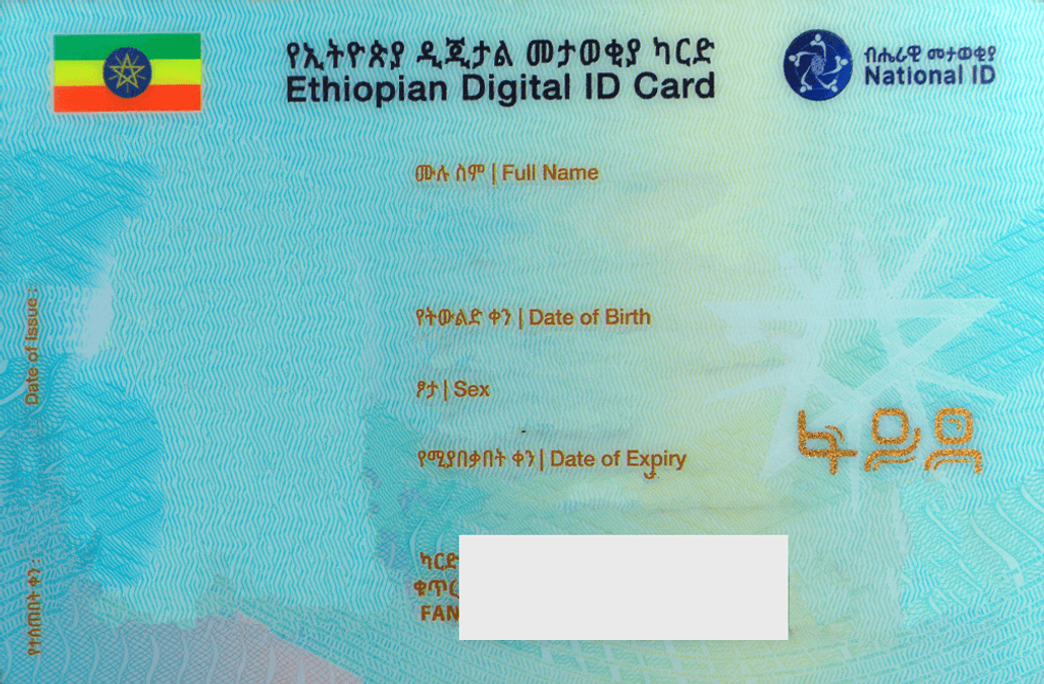
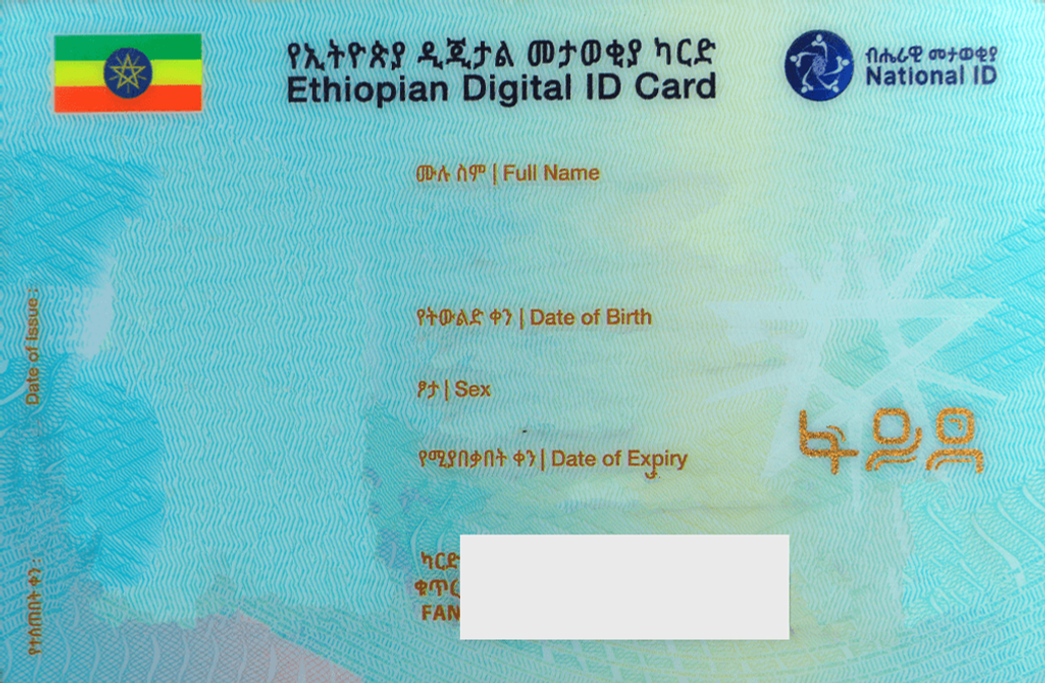
Fix exact dimensions: 1045x683px = 8.85x5.78cm at 300 DPI (verified)

diff --git a/src/services/generator/cardVariantGenerator.ts b/src/services/generator/cardVariantGenerator.ts
@@ -54,7 +54,7 @@ export class CardVariantGenerator {
    * Combine front and back cards into a single image (side by side)
    * @param mirrored - If true, flip both cards horizontally for printing
    * Output maintains 300 DPI for proper printing
-   * Standard card size: 8.85cm × 5.78cm = 1044×684px at 300 DPI
+   * Standard card size: 8.85cm × 5.78cm = 1045×683px at 300 DPI
    */
   private async combineCards(front: Buffer, back: Buffer, template?: TemplateType, mirrored: boolean = false): Promise<Buffer> {
     try {
